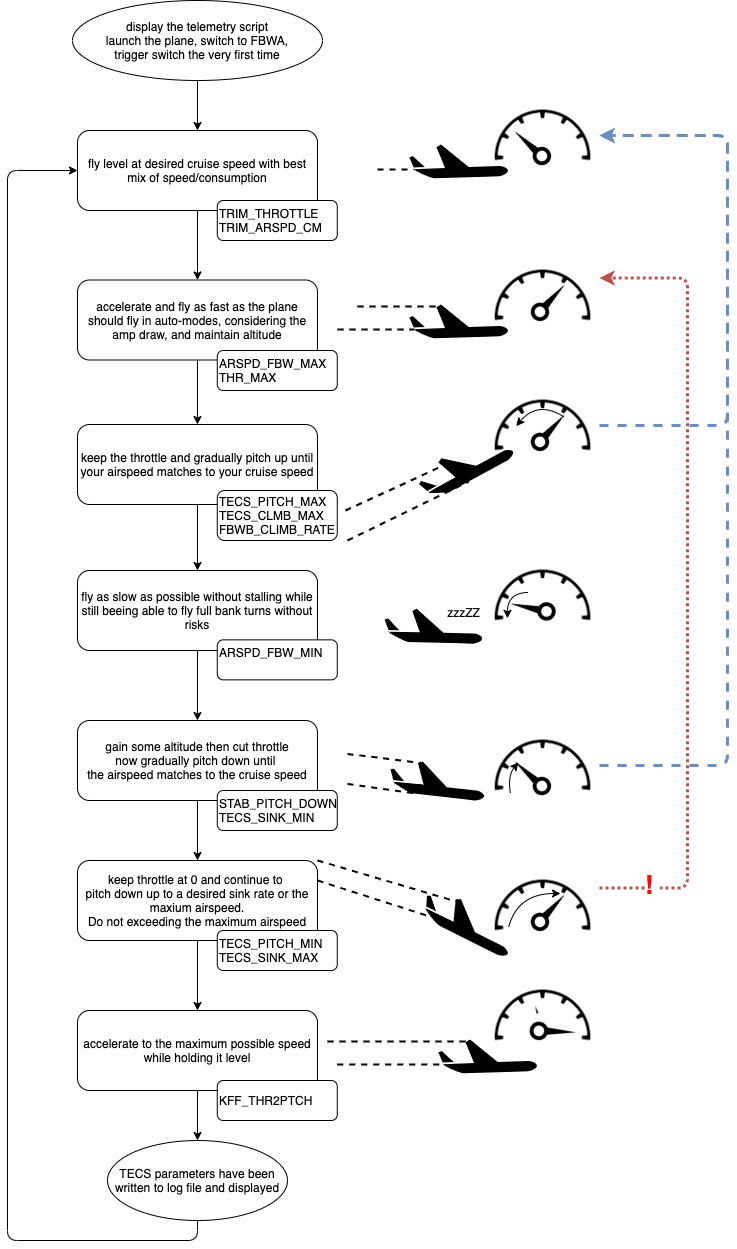
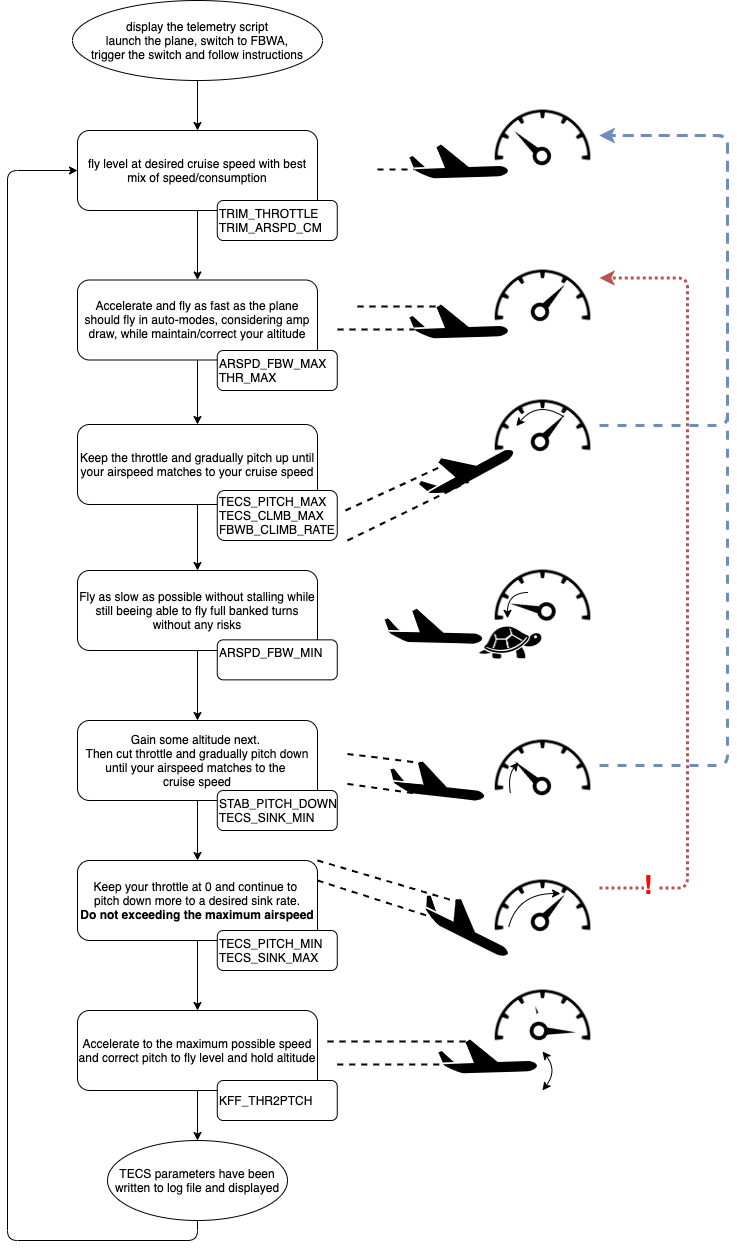
updating readme and flowchart

diff --git a/README.md b/README.md
@@ -18,12 +18,12 @@ The script is running in a loop of:
 * wait for you to get the plane in the desired state, attitude or speed
 * save the related attributes
 
-Each step is triggered by the configured switch and will update the TECS which are displayed on the telemetry screen.
+Each step is triggered by the configured switch and will update your TECS, which are displayed on the telemetry screen.
 
 The process can not be paused or aborted but repeated as many times as needed.
 
 ### Summary
-* CRSF only as of today
+* CRSF protocol only as of today (crossfire & ELRS)
 * read airplane telemetry
 * step-by-step instructions for tuning the TECS
 * single switch operation
@@ -32,28 +32,31 @@ The process can not be paused or aborted but repeated as many times as needed.
 
 ### Installation Horus
 * [temporary] set FRSKY_OPTIONS=0 on Arduplane to get airspeed data 
-* copy WIDGETS/TECS/main.lua to your SD card
-* Choose your prefered voice and copy the custom sounds from SOUNDS/\<voice-of-your-choice\>.zip to your SD-card /SOUNDS/en/
+* copy `WIDGETS/TECS/main.lua` to your SD card
+* Choose your prefered voice and copy the custom sounds from `SOUNDS/\<voice-of-your-choice\>.zip` to your SD-card `/SOUNDS/en/`
 * unload/remove yaapu Telemetry Script temporarily from the active Widgets List
 * load the TECS widget as fullscreen widget
 ![](_img/horus_setup.png)
 * [optionally] enter "widget settings" and choose your switch to initiate the next step. Default is SH
 ![](_img/horus_settings.png)
 
-* reboot your radio
-* your should see those red numbers changing when moving your aircraft
+* reboot your radio to flush the widget cache
+* telemetry values on the left should change when moving your aircraft
+![](_img/horus_example.png)
+
 
 ### Installation x9D /Q7 etc.
 * [temporary] set FRSKY_OPTIONS=0 on Arduplane to get airspeed data 
-* Copy tecs.lua to your SD-card /SCRIPTS/FUNCTIONS/
-* Copy tecstm.lua to your SD-card /SCRIPTS/TELEMETRY/
-* Choose your prefered voice and copy the custom sounds from sounds/\<voice-of-your-choice\>.zip to your SD-card /SOUNDS/en/
+* Copy `SCRIPTS/FUNCTIONS/tecs.lua` to your SD-card `/SCRIPTS/FUNCTIONS/`
+* Copy `/SCRIPTS/TELEMETRY/tecstm.lua` to your SD-card `/SCRIPTS/TELEMETRY/`
+* Choose your prefered voice and copy the custom sounds from `SOUNDS/\<voice-of-your-choice\>.zip` to your SD-card `/SOUNDS/en/`
 * replace your yaapu* from the models telemetry screen with "tecstm" 
 ![](_img/telemetry_screen_tecstm.png)
 	* (Although the script is based on Yaapu FrSky Telemetry Script 1.9.5, it cant be used simulatenously)
 * set up a switch in SPECIAL FUNCTION to trigger the script (momentary switch recommended)
 ![](_img/special_functions.png)
 * open your telemetry screen and validate that Pitch and Roll updating accordingly to aircraft movement
+![](_img/telemetry_screen_empty.png)
 
 ### Operation
 
@@ -62,32 +65,18 @@ The process can not be paused or aborted but repeated as many times as needed.
 *There is no need to do any risky manouvers, you can abort at any time and re-gain altitude etc. or cycle through the menu and start over again*
 
 * open the telemetry screen on your remote, it will have 0s in all parameters
-	* ![](_img/horus_example.png)
-	* ![](_img/telemetry_screen_empty.png)
-* launch your plane and ascend to a comfortable altitude, then switch to FBWA
+* launch your plane and climb to a comfortable altitude, continue in FBWA
 * engage your switch
-	* 	follow the instructions and get _and_ hold the plane in the requested attitude and/or speed [**give the telemetry here 1 or 2 second to update**]
-	*  engage the switch again
+	* 	follow the instructions to get _and_ hold the plane in the requested attitude and/or speed [**give the telemetry here 1 or 2 second to update**]
+	*  engage the switch again to save the values
 	*  repeat
-*  Once done your TECS screen should be filled with numbers
-*  a logfile will be written to /LOGS/tecs_<timestamp>.txt
+*  Once finished your TECS screen should be filled with numbers
+*  a logfile will be written to /LOGS/tecs_\<timestamp\>.txt
 *  Use MissionPlanner, QGroundControl or [Parachute](https://gitlab.com/stavros/parachute) to update your configuration
 
 
-### Process
+### detailed Process
 ![](_img/tecs_tuning_process.png)
-
-### Release notes
-* v0.0.6     26.01.2022	workflow seems to be working, no telemetry support yet
-* v0.0.7     28.02.2022	adding global variable telemetry, making TECS globally available for tecstm.lua
-* v0.0.8	  01.03.2022	correcting TECS_PITCH_MAX
-* v0.0.9	  01.03.2022	added 4 deg margin to TECS_PITCH_MIN and TECS_PITCH_MAX
-* v0.1.0	  01.03.2022	changed procedure for ARSPD_FBW_MIN from circle to straight without a security margin
-* v0.1.1	  02.03.2022	logfiles will be written with timestamp
-* v0.1.2	  02.03.2022	setting default to 0 for TECS_PITCH_MAX&TECS_PITCH_MIN
-* v0.1.3	  03.03.2022	adding post-step-status sounds
-* v0.1.4	  03.03.2022	correcting hSpeed to airspeed as telemetry source
-* v0.2.0	  06.03.2022 airspeed will be read from telemetry.hSpeed again, more unit convertion (dm/s to kph and m/s), logging timestamp updated, adding debug option to log raw values
 
 ##### additional Resources
 [https://ardupilot.org/plane/docs/tecs-total-energy-control-system-for-speed-height-tuning-guide.html
